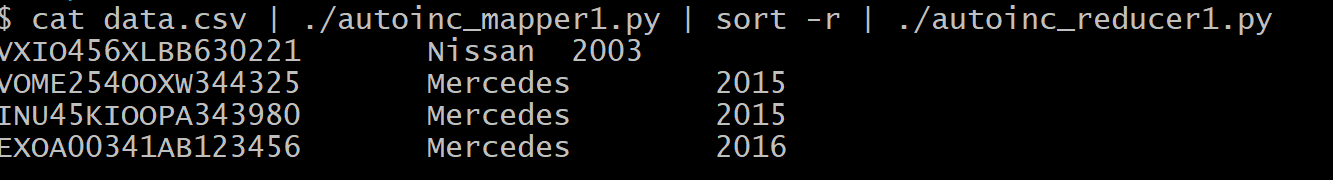
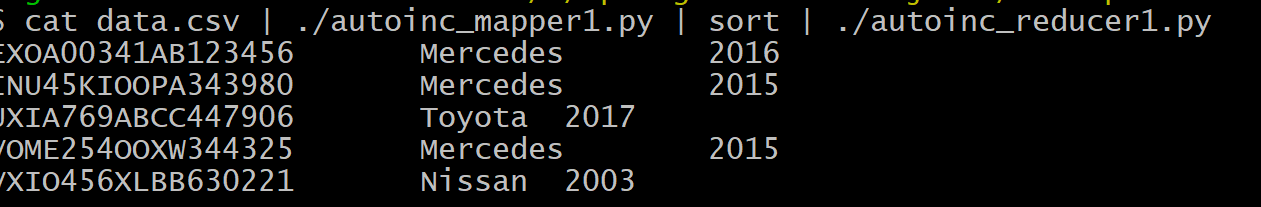
changes to reducer code

diff --git a/Hadoop Mini Project/autoinc_reducer1.py b/Hadoop Mini Project/autoinc_reducer1.py
@@ -7,6 +7,7 @@ current_vin =  None
 vin = None
 make = None
 year = None
+accident= False
 
 def reset():
 # [Logic to reset master info for every new group]
@@ -16,10 +17,12 @@ def reset():
     make = None
     year = None
 
+    accident=False
+    
 def flush():
 # [Write the output]
 # input comes from STDIN
-   print('%s\t%s\t%s' %(vin,make,year))
+   print('%s\t%s\t%s' %(current_vin,make,year))
 
 for line in sys.stdin:
 # [parse the input we got from mapper and update the master info]
@@ -31,30 +34,29 @@ for line in sys.stdin:
     vin = line[0]
     incident_type= line[1]
 
+    
     if current_vin == vin:
         if incident_type == 'I':
             make= line[2]
-            year= line[3]
-        elif incident_type == 'A':
-             flush()
-        reset()
-
-# [detect key changes]
+            year= line[3]    
+        
+    
+    # [detect key changes]
     if current_vin != vin:
         if current_vin != None:
-        # write result to STDOUT
-          if incident_type == 'I':
-           # print("Inside diffrent vin")
-            make = line[2]
-            year = line[3]
-          elif incident_type == 'A':
-             flush()
+         #  print("Flushing Records for Accident found for {}".format(current_vin))
+           flush()
         reset()
-        
+         
 
-# [update more master info after the key change handling]
-    
+   # [update more master info after the key change handling]
+    if incident_type == 'I':
+        make= line[2]
+        year= line[3]  
     current_vin = vin
+    
+    
+   
 
 # do not forget to output the last group if needed!
-#flush()
+flush()
